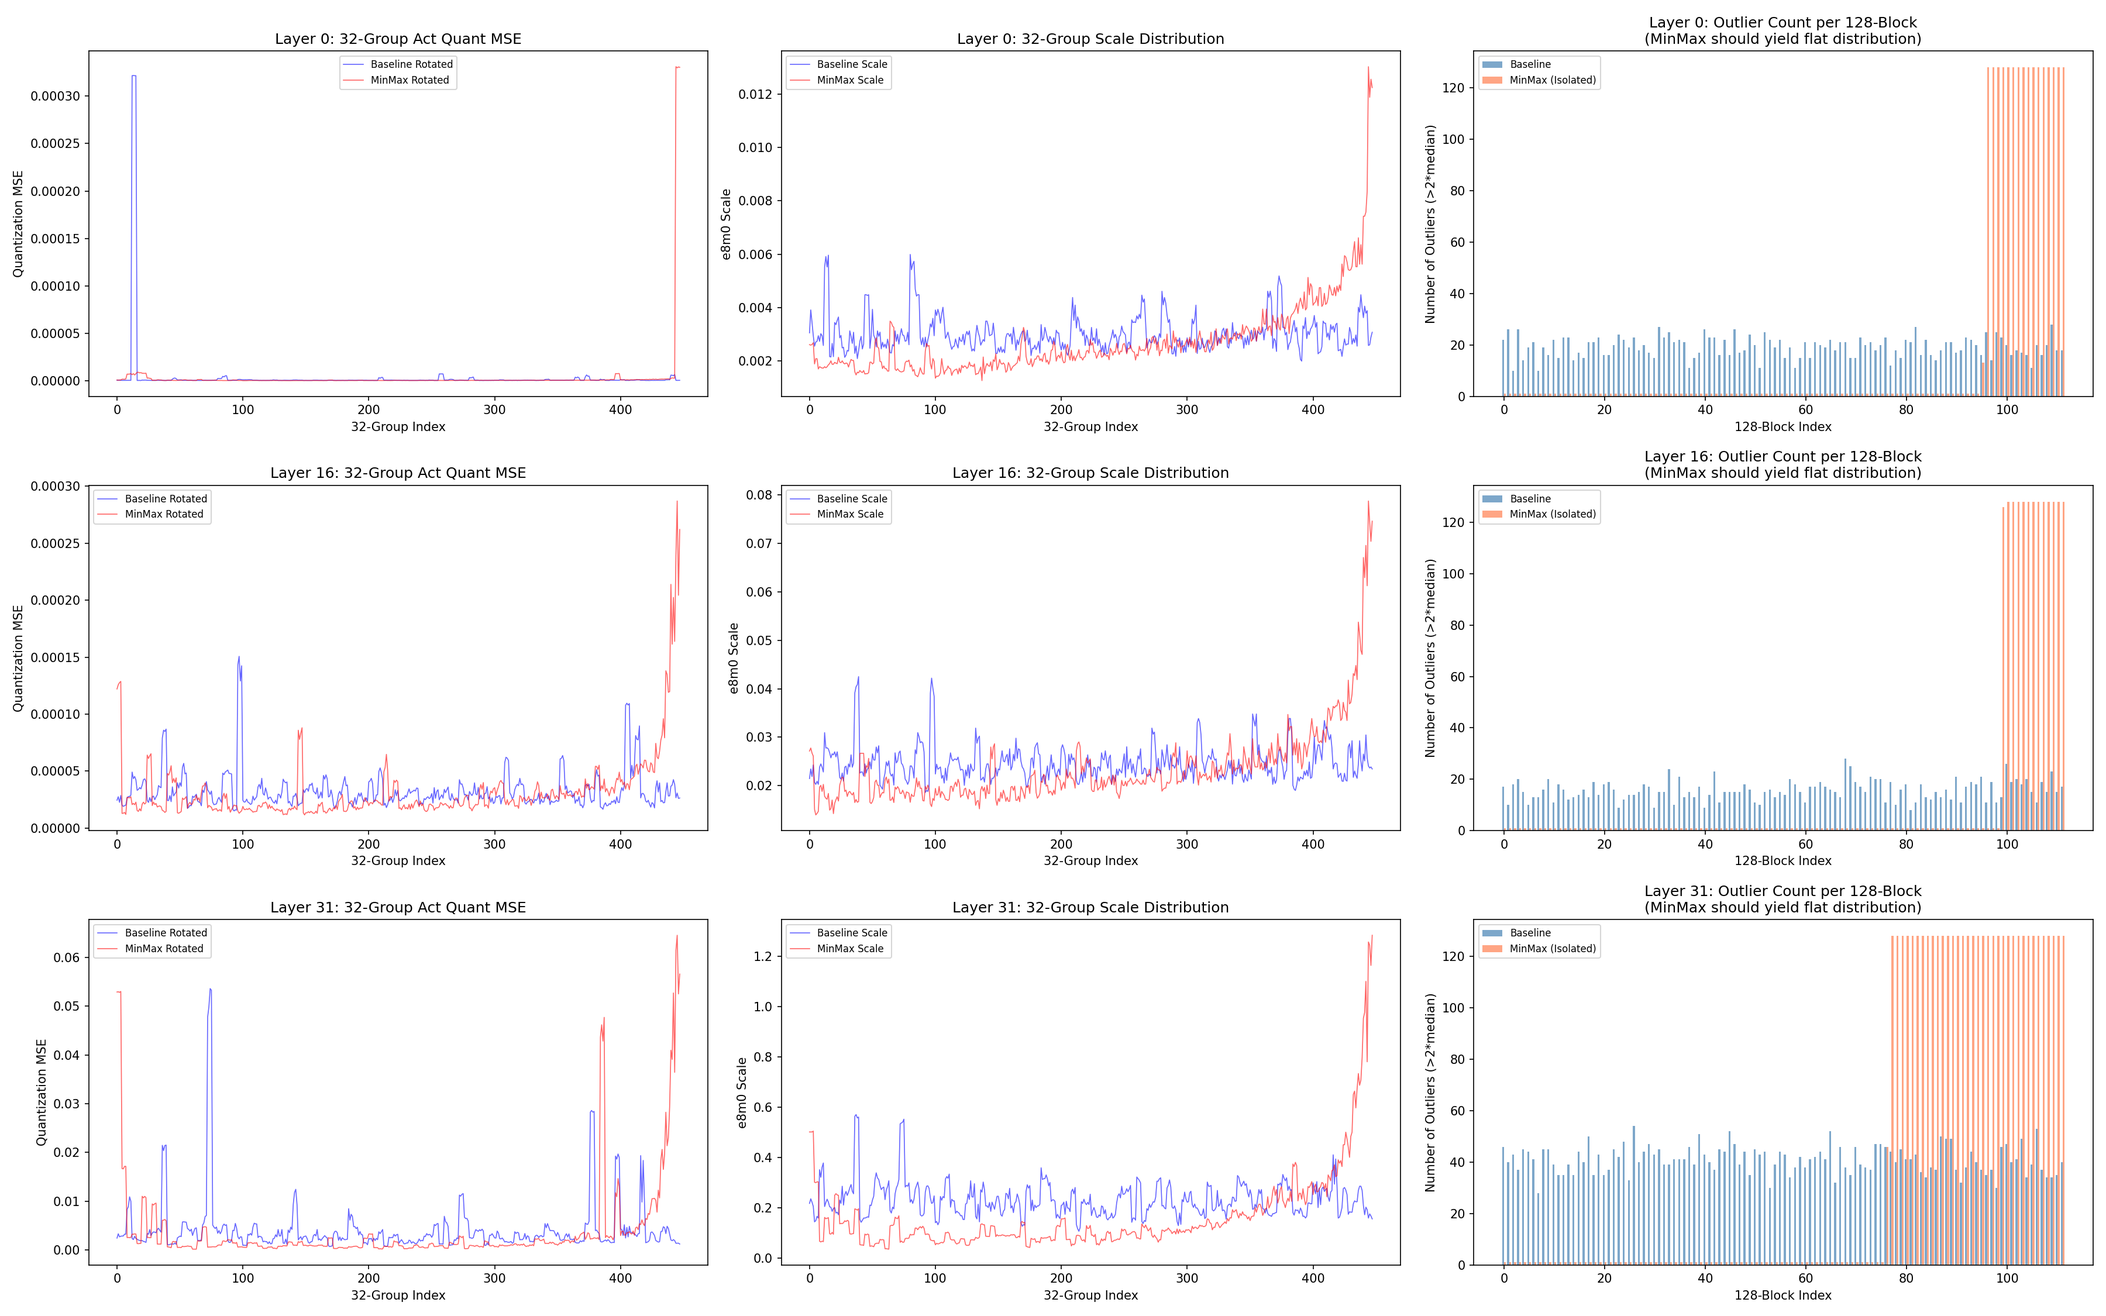
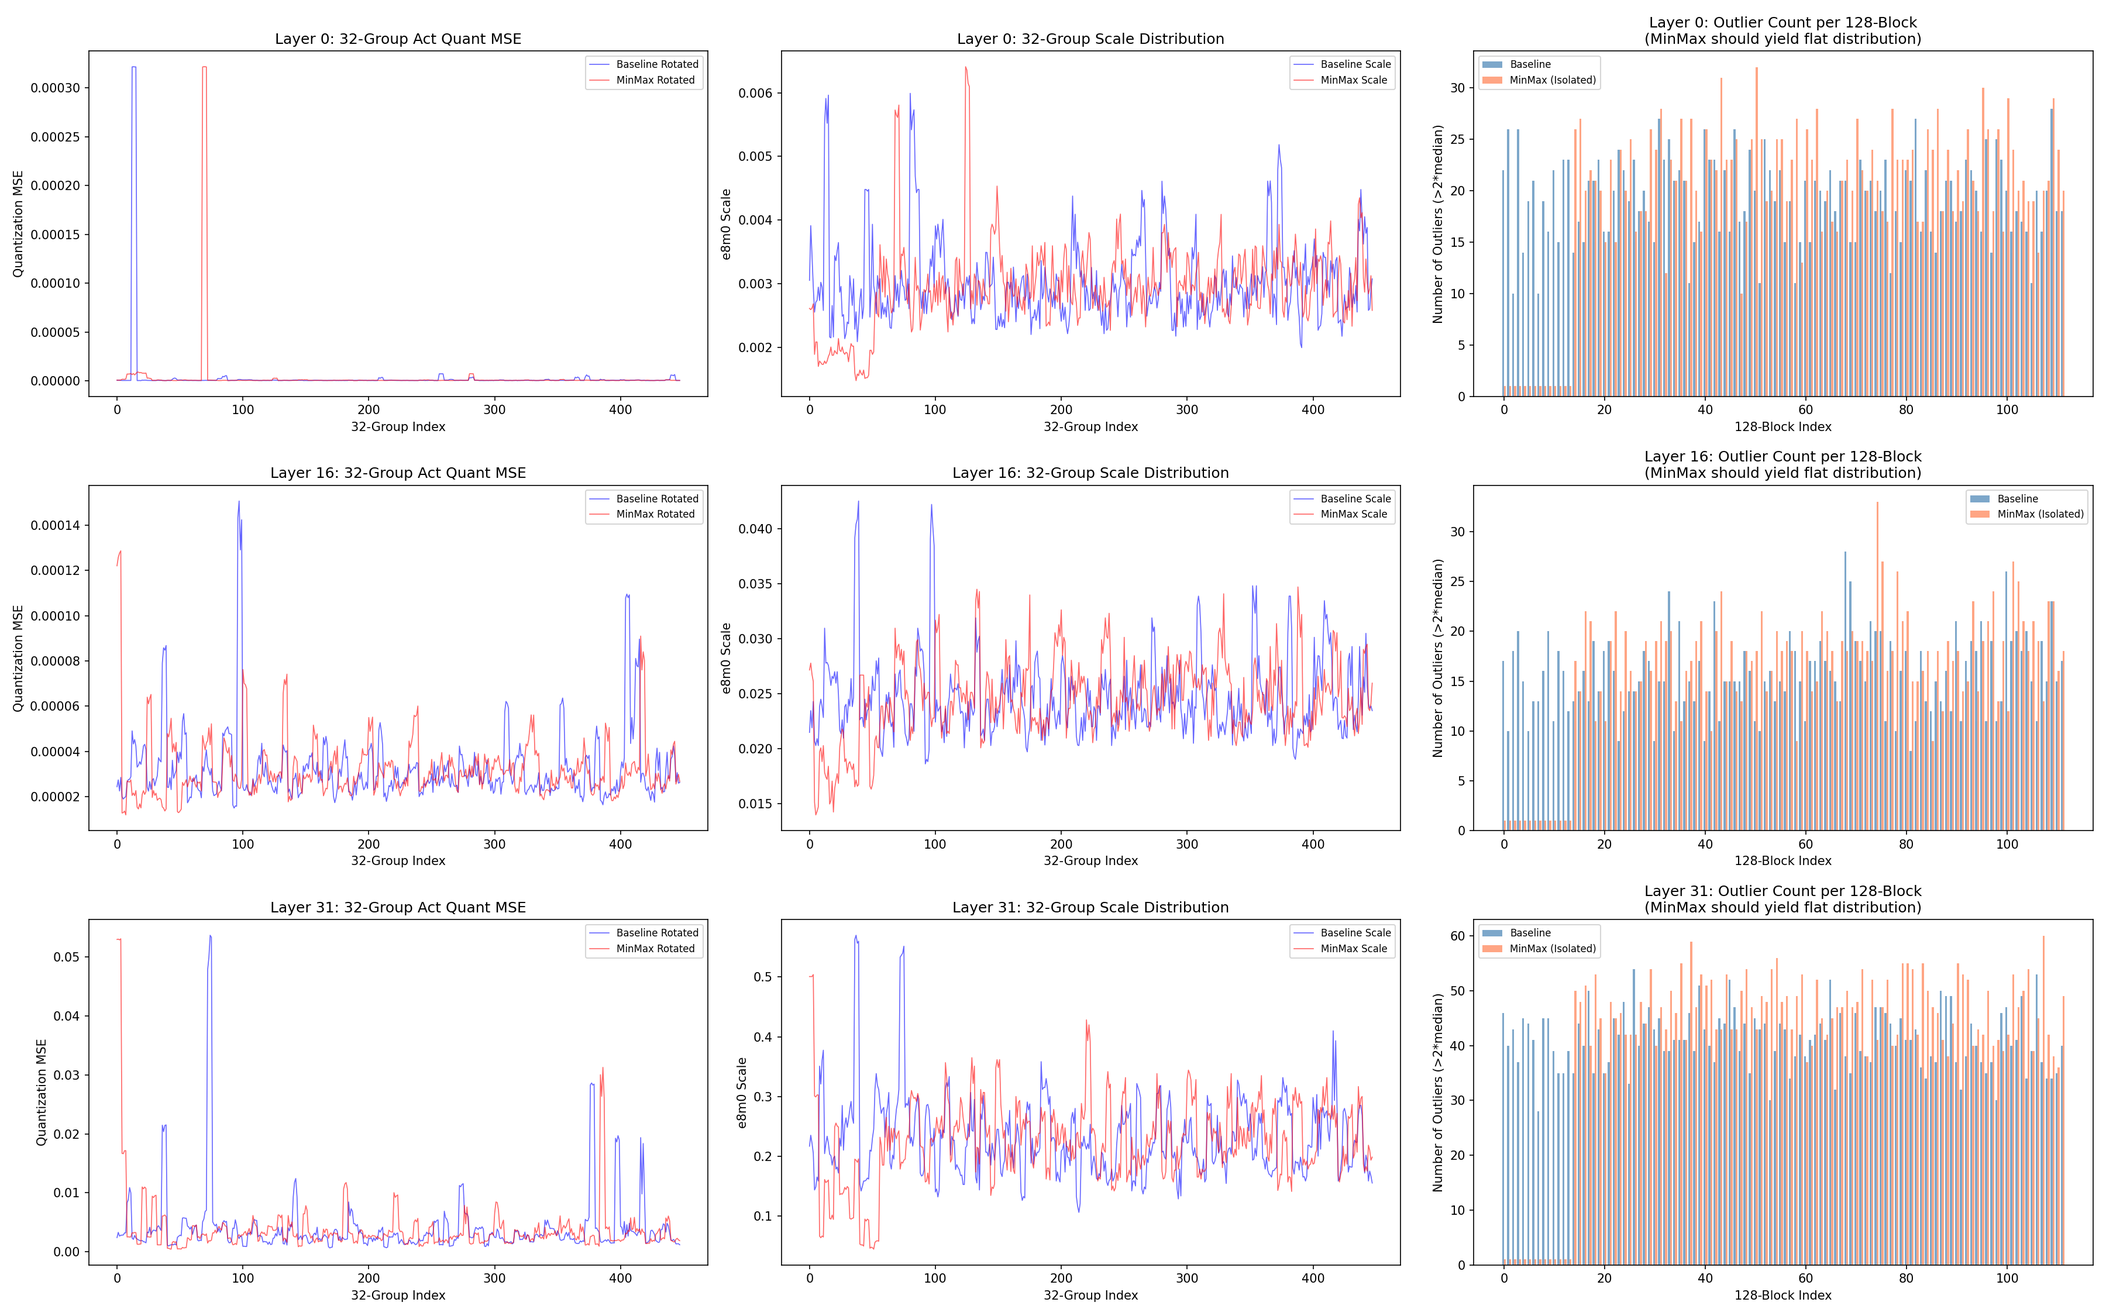
minmax_0.5%_fail

diff --git a/src/quantization/gptq.py b/src/quantization/gptq.py
@@ -323,9 +323,9 @@ def gptq_quantization(
             for name, caches in list(act_caches.items()):
                 X = torch.cat(caches, dim=0) # (N_tokens, Dim)
                 if args.channel_resort in ["P95", "minmax"]:
-                    act_means[name] = torch.quantile(X, 0.95, dim=0).to(device)
+                    act_means[name] = torch.quantile(X.float(), 0.95, dim=0).to(device)
                 else: # "mean" or "R_val"
-                    act_means[name] = X.mean(dim=0).to(device)
+                    act_means[name] = X.float().mean(dim=0).to(device)
                 del X
                 del act_caches[name]
 
@@ -401,21 +401,32 @@ def gptq_quantization(
                 
                 return torch.tensor(perm, device=act_stat.device, dtype=torch.long)
                 
-            def compute_minmax_perm(act_stat, group_size):
+            def compute_truncated_minmax_perm(act_stat, group_size=16, outlier_ratio=0.01):
                 N = act_stat.shape[0]
                 sorted_idx = torch.argsort(act_stat, descending=True)
+                
+                n_outliers = int(N * outlier_ratio)
                 head, tail = 0, N - 1
                 perm = []
-                while head < tail and len(perm) + group_size <= N:
+                
+                for _ in range(n_outliers):
+                    if head >= tail: break
                     group = [sorted_idx[head].item()]
                     head += 1
                     for _ in range(group_size - 1):
+                        if head > tail: break
                         group.append(sorted_idx[tail].item())
                         tail -= 1
                     perm.extend(group)
-                for i in range(head, tail + 1):
-                    perm.append(sorted_idx[i].item())
+                    
+                remaining = [sorted_idx[i].item() for i in range(head, tail + 1)]
+                remaining = sorted(remaining)
+                
+                perm.extend(remaining)
                 return torch.tensor(perm, device=act_stat.device, dtype=torch.long)
+
+            def compute_hessian_quarantine_perm(h_diag, block_size=128):
+                return torch.argsort(h_diag, descending=True).to(device=h_diag.device, dtype=torch.long)
 
             for name, mean_val in act_means.items():
                 abs_vals = mean_val.abs()
@@ -442,29 +453,44 @@ def gptq_quantization(
                     resort_perms[name] = p
                     print(f"    [{name:8}] GridSort completed.")
                 elif args.channel_resort == "minmax":
-                    # Min-Max Pairing for both NVFP4 and MXFP4
+                    # Dual-Track Pairing Strategy for NVFP4 and MXFP4
                     if args.format == "mxfp":
                         gs = args.hadamard_group_size if args.hadamard_group_size > 0 else 128
+                        if "o" in name:
+                            head_dim = model.config.hidden_size // model.config.num_attention_heads
+                            h_group_size = head_dim
+                        else:
+                            h_group_size = -1
+                            
+                        if h_group_size <= 0:
+                            p = compute_truncated_minmax_perm(abs_vals, group_size=gs, outlier_ratio=args.outlier_ratio)
+                        else:
+                            p = torch.zeros(N, device=abs_vals.device, dtype=torch.long)
+                            for i in range(0, N, h_group_size):
+                                block_vals = abs_vals[i : i + h_group_size]
+                                block_gs = min(gs, h_group_size)
+                                block_perm = compute_truncated_minmax_perm(block_vals, group_size=block_gs, outlier_ratio=args.outlier_ratio)
+                                p[i : i + h_group_size] = block_perm + i
+                        print(f"    [{name:8}] Truncated MinMax Pairing (gs={gs}, ratio={args.outlier_ratio}) completed.")
                     else:
                         gs = quant_group_size
-                        
-                    if "o" in name:
-                        head_dim = model.config.hidden_size // model.config.num_attention_heads
-                        h_group_size = head_dim
-                    else:
-                        h_group_size = -1
-                        
-                    if h_group_size <= 0:
-                        p = compute_minmax_perm(abs_vals, group_size=gs)
-                    else:
-                        p = torch.zeros(N, device=abs_vals.device, dtype=torch.long)
-                        for i in range(0, N, h_group_size):
-                            block_vals = abs_vals[i : i + h_group_size]
-                            block_gs = min(gs, h_group_size)
-                            block_perm = compute_minmax_perm(block_vals, group_size=block_gs)
-                            p[i : i + h_group_size] = block_perm + i
+                        if "o" in name:
+                            head_dim = model.config.hidden_size // model.config.num_attention_heads
+                            h_group_size = head_dim
+                        else:
+                            h_group_size = -1
+                            
+                        if h_group_size <= 0:
+                            p = compute_truncated_minmax_perm(abs_vals, group_size=gs, outlier_ratio=args.outlier_ratio)
+                        else:
+                            p = torch.zeros(N, device=abs_vals.device, dtype=torch.long)
+                            for i in range(0, N, h_group_size):
+                                block_vals = abs_vals[i : i + h_group_size]
+                                block_gs = min(gs, h_group_size)
+                                block_perm = compute_truncated_minmax_perm(block_vals, group_size=block_gs, outlier_ratio=args.outlier_ratio)
+                                p[i : i + h_group_size] = block_perm + i
+                        print(f"    [{name:8}] Truncated MinMax Pairing (gs={gs}, ratio={args.outlier_ratio}) completed.")
                     resort_perms[name] = p
-                    print(f"    [{name:8}] MinMax Pairing (gs={gs}) completed.")
                 else:
                     # Old Resonance R_val Strategy
                     h_group_size = args.hadamard_group_size

diff --git a/src/quantization/rtn.py b/src/quantization/rtn.py
@@ -118,9 +118,9 @@ def rtn_quantization(
             for name, caches in list(act_caches.items()):
                 X = torch.cat(caches, dim=0) # (N_tokens, Dim)
                 if args.channel_resort in ["P95", "minmax"]:
-                    act_means[name] = torch.quantile(X, 0.95, dim=0).to(device)
+                    act_means[name] = torch.quantile(X.float(), 0.95, dim=0).to(device)
                 else: # "mean" or "R_val"
-                    act_means[name] = X.mean(dim=0).to(device)
+                    act_means[name] = X.float().mean(dim=0).to(device)
                 del X
                 del act_caches[name]
 
@@ -196,21 +196,32 @@ def rtn_quantization(
                 
                 return torch.tensor(perm, device=act_stat.device, dtype=torch.long)
                 
-            def compute_minmax_perm(act_stat, group_size):
+            def compute_truncated_minmax_perm(act_stat, group_size=16, outlier_ratio=0.01):
                 N = act_stat.shape[0]
                 sorted_idx = torch.argsort(act_stat, descending=True)
+                
+                n_outliers = int(N * outlier_ratio)
                 head, tail = 0, N - 1
                 perm = []
-                while head < tail and len(perm) + group_size <= N:
+                
+                for _ in range(n_outliers):
+                    if head >= tail: break
                     group = [sorted_idx[head].item()]
                     head += 1
                     for _ in range(group_size - 1):
+                        if head > tail: break
                         group.append(sorted_idx[tail].item())
                         tail -= 1
                     perm.extend(group)
-                for i in range(head, tail + 1):
-                    perm.append(sorted_idx[i].item())
+                    
+                remaining = [sorted_idx[i].item() for i in range(head, tail + 1)]
+                remaining = sorted(remaining)
+                
+                perm.extend(remaining)
                 return torch.tensor(perm, device=act_stat.device, dtype=torch.long)
+
+            def compute_hessian_quarantine_perm(h_diag, block_size=128):
+                return torch.argsort(h_diag, descending=True).to(device=h_diag.device, dtype=torch.long)
 
             for name, mean_val in act_means.items():
                 abs_vals = mean_val.abs()
@@ -237,29 +248,44 @@ def rtn_quantization(
                     resort_perms[name] = p
                     print(f"    [{name:8}] GridSort completed.")
                 elif args.channel_resort == "minmax":
-                    # Min-Max Pairing for both NVFP4 and MXFP4
+                    # Dual-Track Pairing Strategy for NVFP4 and MXFP4
                     if args.format == "mxfp":
                         gs = args.hadamard_group_size if args.hadamard_group_size > 0 else 128
+                        if "o" in name:
+                            head_dim = model.config.hidden_size // model.config.num_attention_heads
+                            h_group_size = head_dim
+                        else:
+                            h_group_size = -1
+                            
+                        if h_group_size <= 0:
+                            p = compute_truncated_minmax_perm(abs_vals, group_size=gs, outlier_ratio=args.outlier_ratio)
+                        else:
+                            p = torch.zeros(N, device=abs_vals.device, dtype=torch.long)
+                            for i in range(0, N, h_group_size):
+                                block_vals = abs_vals[i : i + h_group_size]
+                                block_gs = min(gs, h_group_size)
+                                block_perm = compute_truncated_minmax_perm(block_vals, group_size=block_gs, outlier_ratio=args.outlier_ratio)
+                                p[i : i + h_group_size] = block_perm + i
+                        print(f"    [{name:8}] Truncated MinMax Pairing (gs={gs}, ratio={args.outlier_ratio}) completed.")
                     else:
                         gs = quant_group_size
-                        
-                    if "o" in name:
-                        head_dim = model.config.hidden_size // model.config.num_attention_heads
-                        h_group_size = head_dim
-                    else:
-                        h_group_size = -1
-                        
-                    if h_group_size <= 0:
-                        p = compute_minmax_perm(abs_vals, group_size=gs)
-                    else:
-                        p = torch.zeros(N, device=abs_vals.device, dtype=torch.long)
-                        for i in range(0, N, h_group_size):
-                            block_vals = abs_vals[i : i + h_group_size]
-                            block_gs = min(gs, h_group_size)
-                            block_perm = compute_minmax_perm(block_vals, group_size=block_gs)
-                            p[i : i + h_group_size] = block_perm + i
+                        if "o" in name:
+                            head_dim = model.config.hidden_size // model.config.num_attention_heads
+                            h_group_size = head_dim
+                        else:
+                            h_group_size = -1
+                            
+                        if h_group_size <= 0:
+                            p = compute_truncated_minmax_perm(abs_vals, group_size=gs, outlier_ratio=args.outlier_ratio)
+                        else:
+                            p = torch.zeros(N, device=abs_vals.device, dtype=torch.long)
+                            for i in range(0, N, h_group_size):
+                                block_vals = abs_vals[i : i + h_group_size]
+                                block_gs = min(gs, h_group_size)
+                                block_perm = compute_truncated_minmax_perm(block_vals, group_size=block_gs, outlier_ratio=args.outlier_ratio)
+                                p[i : i + h_group_size] = block_perm + i
+                        print(f"    [{name:8}] Truncated MinMax Pairing (gs={gs}, ratio={args.outlier_ratio}) completed.")
                     resort_perms[name] = p
-                    print(f"    [{name:8}] MinMax Pairing (gs={gs}) completed.")
                 else:
                     # Old Resonance R_val Strategy
                     h_group_size = args.hadamard_group_size

diff --git a/minmax_mxfp4.py b/minmax_mxfp4.py
@@ -23,22 +23,30 @@ from fast_hadamard_transform import hadamard_transform
 
 # ======================== 核心算法 ========================
 
-def compute_minmax_perm(act_stat, group_size=128):
-    """首尾配对: 每个 group_size (128) 包含 1 个最大 + (group_size-1) 个最小"""
+def compute_truncated_minmax_perm(act_stat, group_size=128, outlier_ratio=0.005):
+    """Truncated MinMax Strategy"""
     N = act_stat.shape[0]
     sorted_idx = torch.argsort(act_stat, descending=True)
+    
+    n_outliers = int(N * outlier_ratio)
     head, tail = 0, N - 1
     perm = []
-    while head < tail and len(perm) + group_size <= N:
+    
+    for _ in range(n_outliers):
+        if head >= tail: break
         group = [sorted_idx[head].item()]
         head += 1
         for _ in range(group_size - 1):
+            if head > tail: break
             group.append(sorted_idx[tail].item())
             tail -= 1
         perm.extend(group)
-    for i in range(head, tail + 1):
-        perm.append(sorted_idx[i].item())
-    return torch.tensor(perm, dtype=torch.long)
+        
+    remaining = [sorted_idx[i].item() for i in range(head, tail + 1)]
+    remaining = sorted(remaining)
+    
+    perm.extend(remaining)
+    return torch.tensor(perm, device=act_stat.device, dtype=torch.long)
 
 
 def apply_hadamard_128(x, dim=-1):
@@ -133,13 +141,13 @@ def analyze_layer(layer_idx, act, weight, quantizer, device):
     dim = act.shape[-1]
     n_tokens = min(50, act.shape[0])
     
-    # 1. 计算 P95 统计量并获得 MinMax 排列
-    p95 = torch.quantile(act.abs(), 0.95, dim=0)
-    perm = compute_minmax_perm(p95, group_size=128)
-    inv_perm = torch.argsort(perm)
-    
     # 近似 Hessian 对角线
     hessian_diag = (act[:n_tokens] ** 2).mean(dim=0)
+    
+    # 1. 计算 P95 统计量并获得 Truncated MinMax 排列 (outlier_ratio=0.005)
+    p95 = torch.quantile(act.abs(), 0.95, dim=0)
+    perm = compute_truncated_minmax_perm(p95, group_size=128, outlier_ratio=0.001)
+    inv_perm = torch.argsort(perm)
     
     # 权重子矩阵，用于快速评估输出空间误差
     n_out = min(128, weight.shape[0])

diff --git a/minmax_nv.py b/minmax_nv.py
@@ -21,20 +21,25 @@ from src.transforms.transforms import build_transform
 # ======================== 核心算法 ========================
 
 def compute_minmax_perm(act_stat, group_size):
-    """首尾配对: 1个最大 + (group_size-1)个最小"""
+    """Truncated MinMax (outlier_ratio=0.01)"""
+    outlier_ratio = 0.01
     N = act_stat.shape[0]
     sorted_idx = torch.argsort(act_stat, descending=True)
+    n_outliers = int(N * outlier_ratio)
     head, tail = 0, N - 1
     perm = []
-    while head < tail and len(perm) + group_size <= N:
+    for _ in range(n_outliers):
+        if head >= tail: break
         group = [sorted_idx[head].item()]
         head += 1
         for _ in range(group_size - 1):
+            if head > tail: break
             group.append(sorted_idx[tail].item())
             tail -= 1
         perm.extend(group)
-    for i in range(head, tail + 1):
-        perm.append(sorted_idx[i].item())
+    remaining = [sorted_idx[i].item() for i in range(head, tail + 1)]
+    remaining = sorted(remaining)
+    perm.extend(remaining)
     return torch.tensor(perm, dtype=torch.long)
 
 

diff --git a/minmax_hessian.py b/minmax_hessian.py
@@ -19,19 +19,25 @@ sys.path.append(os.path.dirname(os.path.abspath(__file__)))
 from src.quantization.quantizer import Quantizer
 
 def compute_minmax_perm(act_stat, group_size):
+    """Truncated MinMax (outlier_ratio=0.01)"""
+    outlier_ratio = 0.01
     N = act_stat.shape[0]
     sorted_idx = torch.argsort(act_stat, descending=True)
+    n_outliers = int(N * outlier_ratio)
     head, tail = 0, N - 1
     perm = []
-    while head < tail and len(perm) + group_size <= N:
+    for _ in range(n_outliers):
+        if head >= tail: break
         group = [sorted_idx[head].item()]
         head += 1
         for _ in range(group_size - 1):
+            if head > tail: break
             group.append(sorted_idx[tail].item())
             tail -= 1
         perm.extend(group)
-    for i in range(head, tail + 1):
-        perm.append(sorted_idx[i].item())
+    remaining = [sorted_idx[i].item() for i in range(head, tail + 1)]
+    remaining = sorted(remaining)
+    perm.extend(remaining)
     return torch.tensor(perm, dtype=torch.long)
 
 

diff --git a/model_quant.py b/model_quant.py
@@ -260,6 +260,12 @@ def parse_args():
         choices=["none", "mean", "P95", "minmax"],
         help="Apply grid-aware channel reordering (GridSort) based on channel 'mean' or 'P95', 'minmax', or use 'none' to skip.",
     )
+    parser.add_argument(
+        "--outlier_ratio",
+        type=float,
+        default=0.01,
+        help="Outlier ratio for Truncated MinMax channel reordering.",
+    )
     # Transform params
     parser.add_argument(
         "--transform_class",
